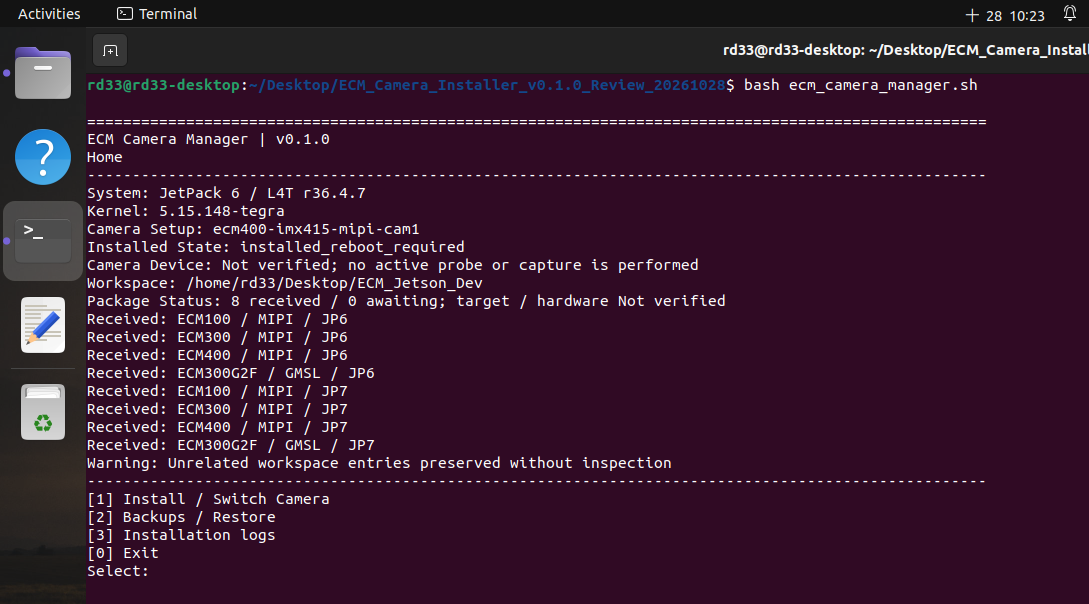
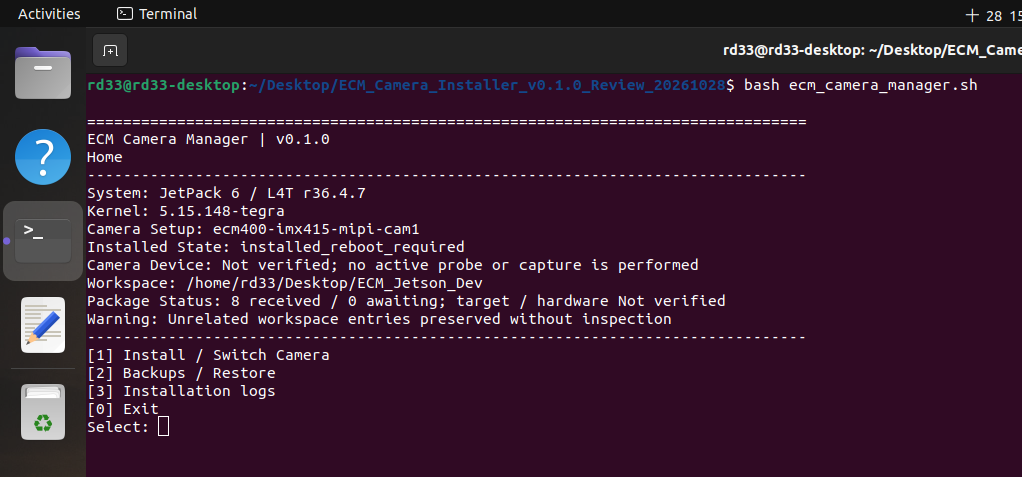
[ECM][Installer] Simplify home display and update README presentation
- Comment out per-package Received rows on the home page,
  preserving the original code and Package Status summary.
- Display each resolution on a separate line in the README table.
- Replace the Open the Menu screenshot with the updated home page.

diff --git a/ecm_install/app.py b/ecm_install/app.py
@@ -190,9 +190,9 @@ def main(argv=None):
             ui.line('Workspace: ' + str(engine.workspace))
             received = [k for k in PUBLIC_PACKAGES if catalog.manifest(k) is not None]
             ui.line('Package Status: ' + str(len(received)) + ' received / ' + str(len(PUBLIC_PACKAGES)-len(received)) + ' awaiting; target / hardware Not verified')
-            for key in received:
-                item=PACKAGES[key]
-                ui.line('Received: ' + item['product'] + ' / ' + item['connection'] + ' / JP' + item['jetpack'])
+            # for key in received:
+            #     item=PACKAGES[key]
+            #     ui.line('Received: ' + item['product'] + ' / ' + item['connection'] + ' / JP' + item['jetpack'])
             if system.simulation:
                 ui.line('LOCAL_SIMULATION / NOT FOR RELEASE / no hardware verification')
             for warning in record['warnings']:

diff --git a/README.md b/README.md
@@ -31,10 +31,10 @@ The following specifications are declared by the included **JetPack 7.x** packag
 
 | Model | Connection | Resolutions and FPS |
 |---|---|---|
-| TS-ECM100M22 | MIPI | 1920×1080 @ 60/30 FPS; 1280×720 @ 60/30 FPS |
-| TS-ECM300M22 | MIPI | 2592×1944 @ 80/60/30 FPS; 2560×1440 @ 60/30 FPS; 1920×1080 @ 60/30 FPS |
-| TS-ECM300G2F | GMSL (MAX96724) | 2592×1944 @ 80/60/30 FPS; 2560×1440 @ 60/30 FPS; 1920×1080 @ 60/30 FPS |
-| TS-ECM400G2F | GMSL (MAX96724) | 3840×2160 @ 30 FPS; 2560×1440 @ 60/30 FPS; 1920×1080 @ 90/60/30 FPS |
+| TS-ECM100M22 | MIPI | 1920×1080 @ 60/30 FPS<br>1280×720 @ 60/30 FPS |
+| TS-ECM300M22 | MIPI | 2592×1944 @ 80/60/30 FPS<br>2560×1440 @ 60/30 FPS<br>1920×1080 @ 60/30 FPS |
+| TS-ECM300G2F | GMSL (MAX96724) | 2592×1944 @ 80/60/30 FPS<br>2560×1440 @ 60/30 FPS<br>1920×1080 @ 60/30 FPS |
+| TS-ECM400G2F | GMSL (MAX96724) | 3840×2160 @ 30 FPS<br>2560×1440 @ 60/30 FPS<br>1920×1080 @ 90/60/30 FPS |
 
 The ECM300G2F GMSL package is fixed to upstream commit `66e13ae803064226ff489a70b0a52c190f87b4af`. Channels A/B/C/D each declare the same seven Linear modes and share one ISP/NITO pair. Mode6 is 1920×1080 at **30 FPS**, as declared by the effective driver mode table, DTS values, and compiled DTBO; the upstream README incorrectly lists 60 FPS. These static checks do not prove source-to-binary build provenance or hardware performance. Simultaneous multi-channel capture still requires validation.
 
